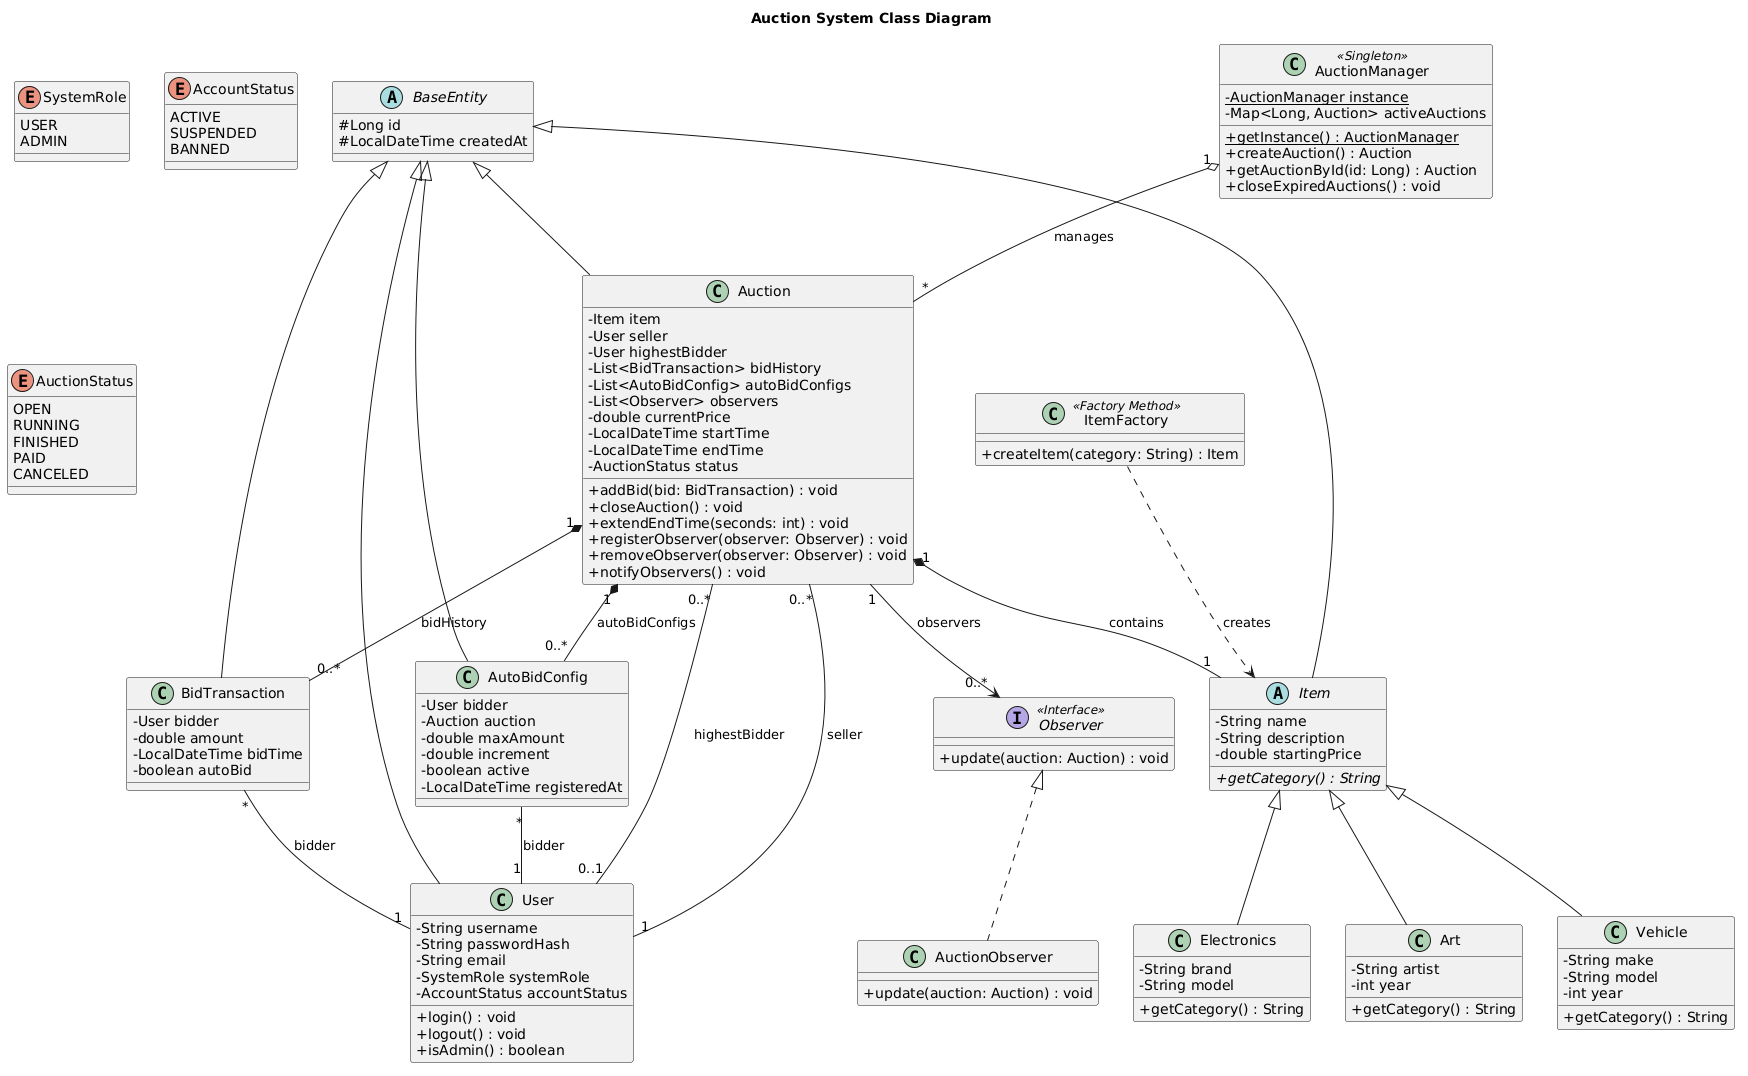
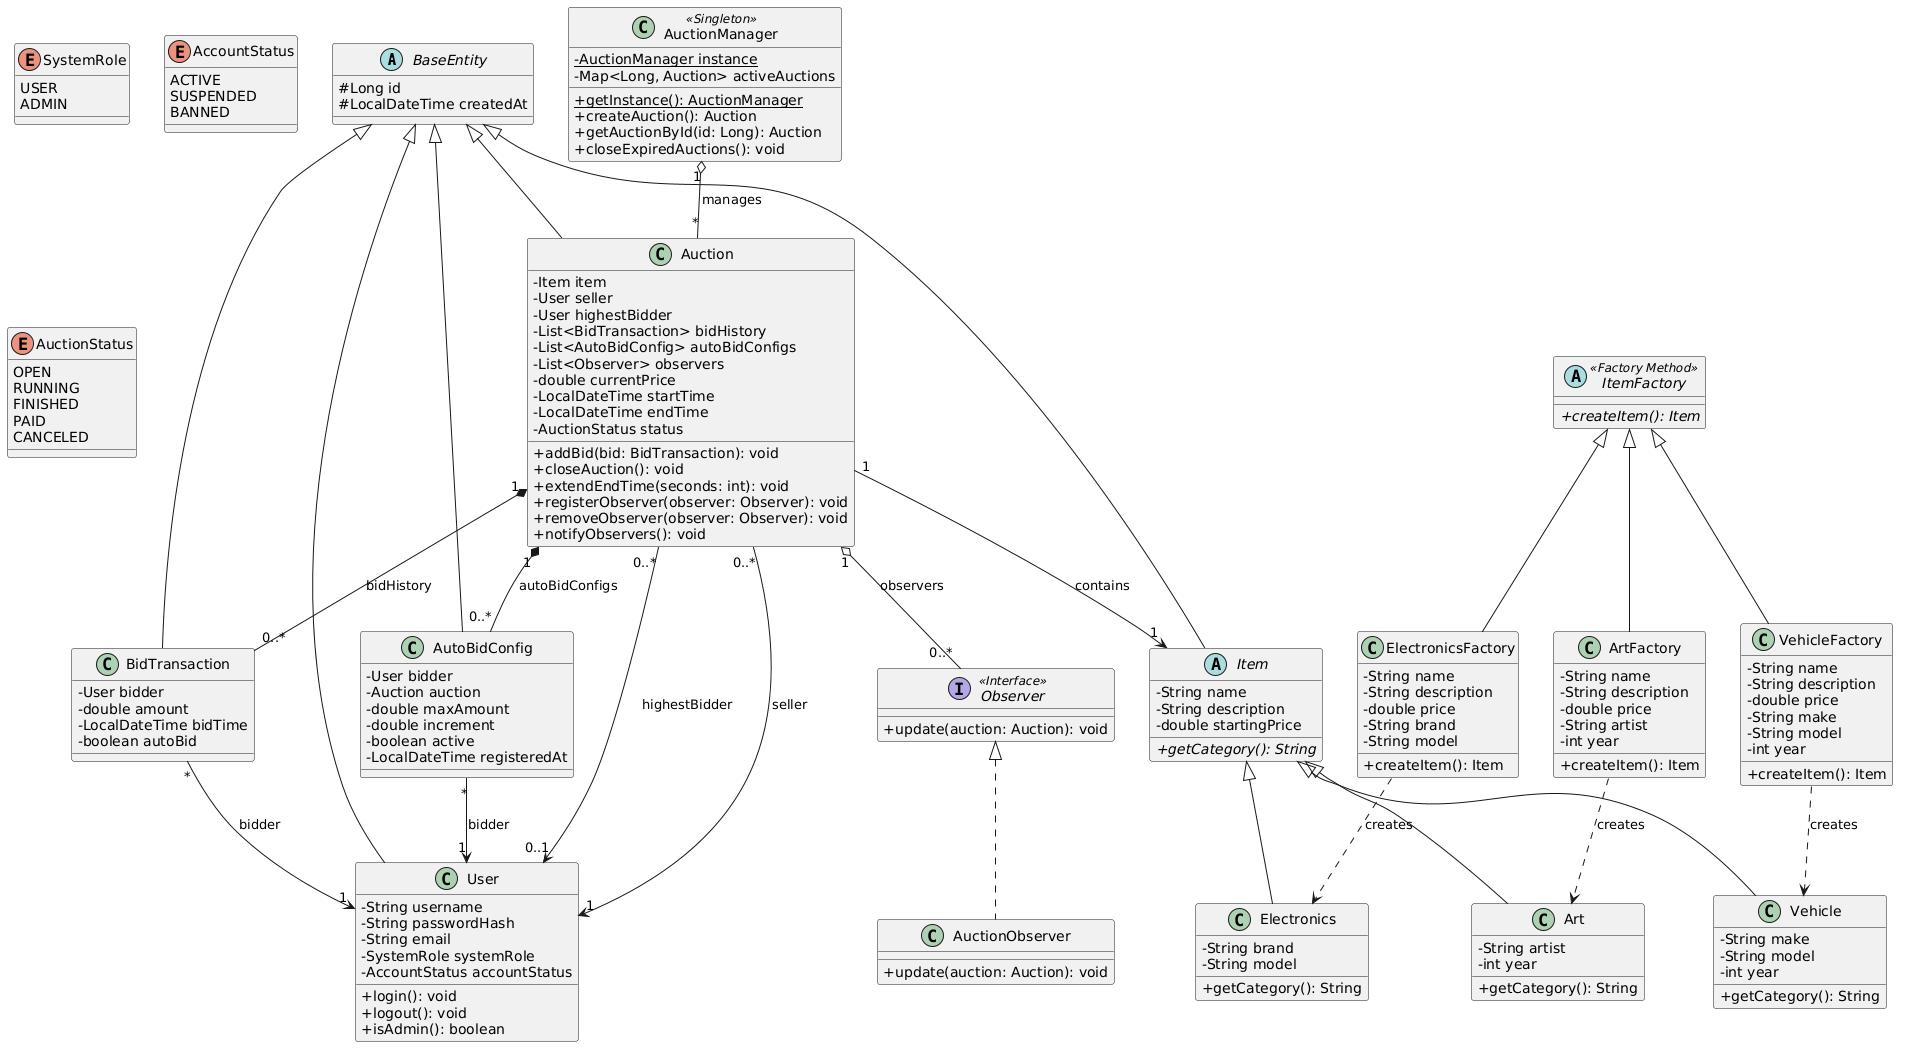
update new diagram

diff --git a/Client/src/main/java/com/auction/client/Enum/AuctionStatus.java b/Client/src/main/java/com/auction/client/Enum/AuctionStatus.java
@@ -2,6 +2,9 @@ package com.auction.client.Enum;
 
 public enum AuctionStatus {
     OPEN,
-    CLOSED,
-    CANCELLED
+    RUNNING,
+    CANCELLED,
+    FINISHED,
+    PAID
+
 }

diff --git a/Client/src/main/java/com/auction/client/Launcher.java b/Client/src/main/java/com/auction/client/Launcher.java
@@ -1,0 +1,7 @@
+package com.auction.client;
+
+public class Launcher {
+    public static void main(String[] args) {
+        MainApp.main(args);
+    }
+}